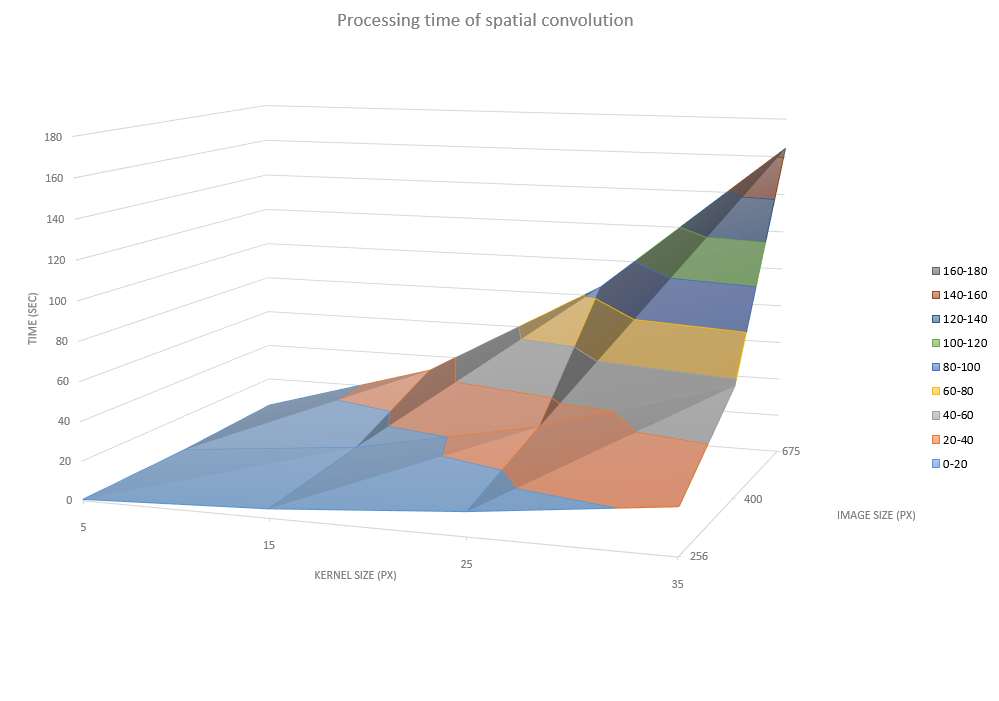
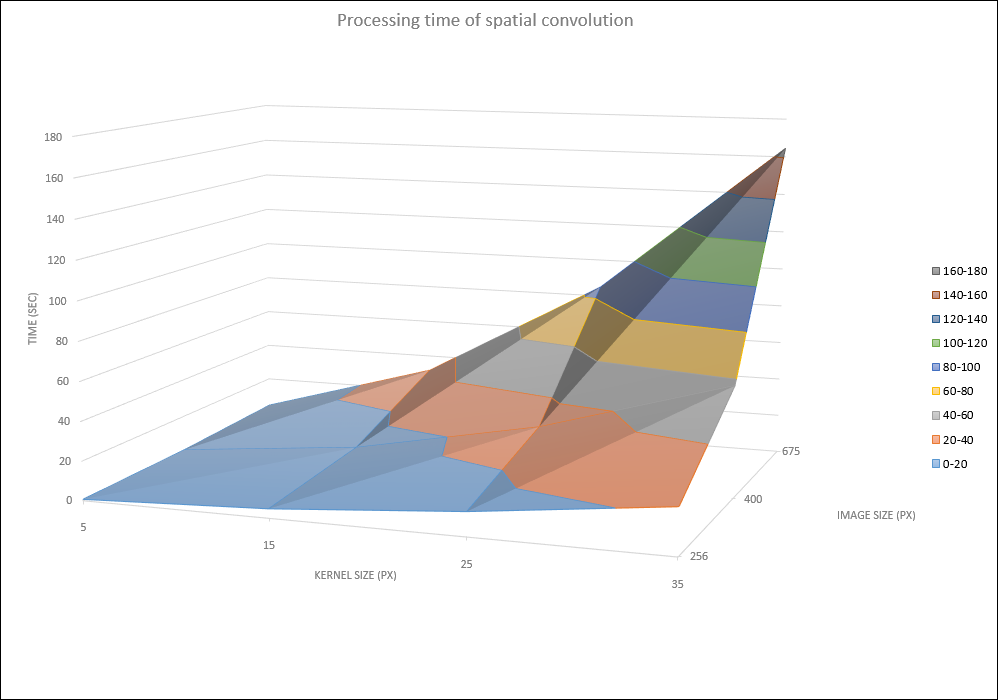
graphs added

diff --git a/README.md b/README.md
@@ -107,8 +107,8 @@ Current exercise performs unsharp masking of several different-sized images and 
 <img src = "unsharp_masking/result_images/degraded_orig_256.jpg" width = "256">
 <img src = "unsharp_masking/result_images/orig_256_USM_15x15_5_0.8_freqDom_enhanced.png" width = "256"> <br> <br>
 Dependency on processing time on image size and kernel size is shown on the following graphs: <br>
-<img src = "unsharp_masking/spat.PNG" width = "400">
-<img src = "unsharp_masking/freq.PNG" width = "400"> <br> <br>
+<img src = "unsharp_masking/spat.PNG" width = "600">
+<img src = "unsharp_masking/freq.PNG" width = "600"> <br> <br>
 As it can be seen on graphs, in case of spatial convolution processing time increases with growth of image size and with growth of kernel size. But in case of frequency convolution, processing time does not depend on kernel size, only on image size. The reason of such effect is that in spatial domain kernel size defines number of multiplications performed for convolution, but in frequency domain size of the kernel is increased to the image size, transformed to frequency domain and is multiplied with frequency domain representation of image in an element-by-element manner. Moreover, convolution in frequency domain is just much faster than in spatial domain even for similar image and kernel sizes. 
 
 <!--Unsharp masking is a technique of image processing which achieves effect of perception of image's greater sharpness by contrast magnification of edges. This effect is shown on the following picture:
